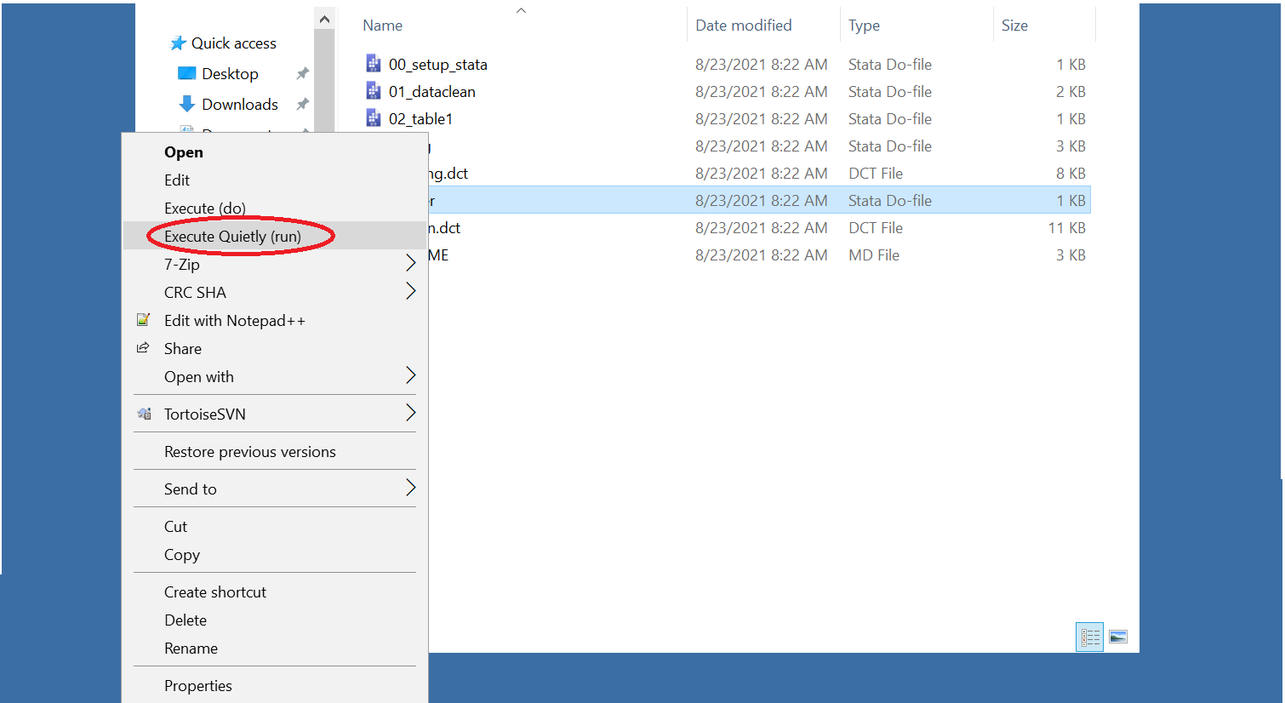
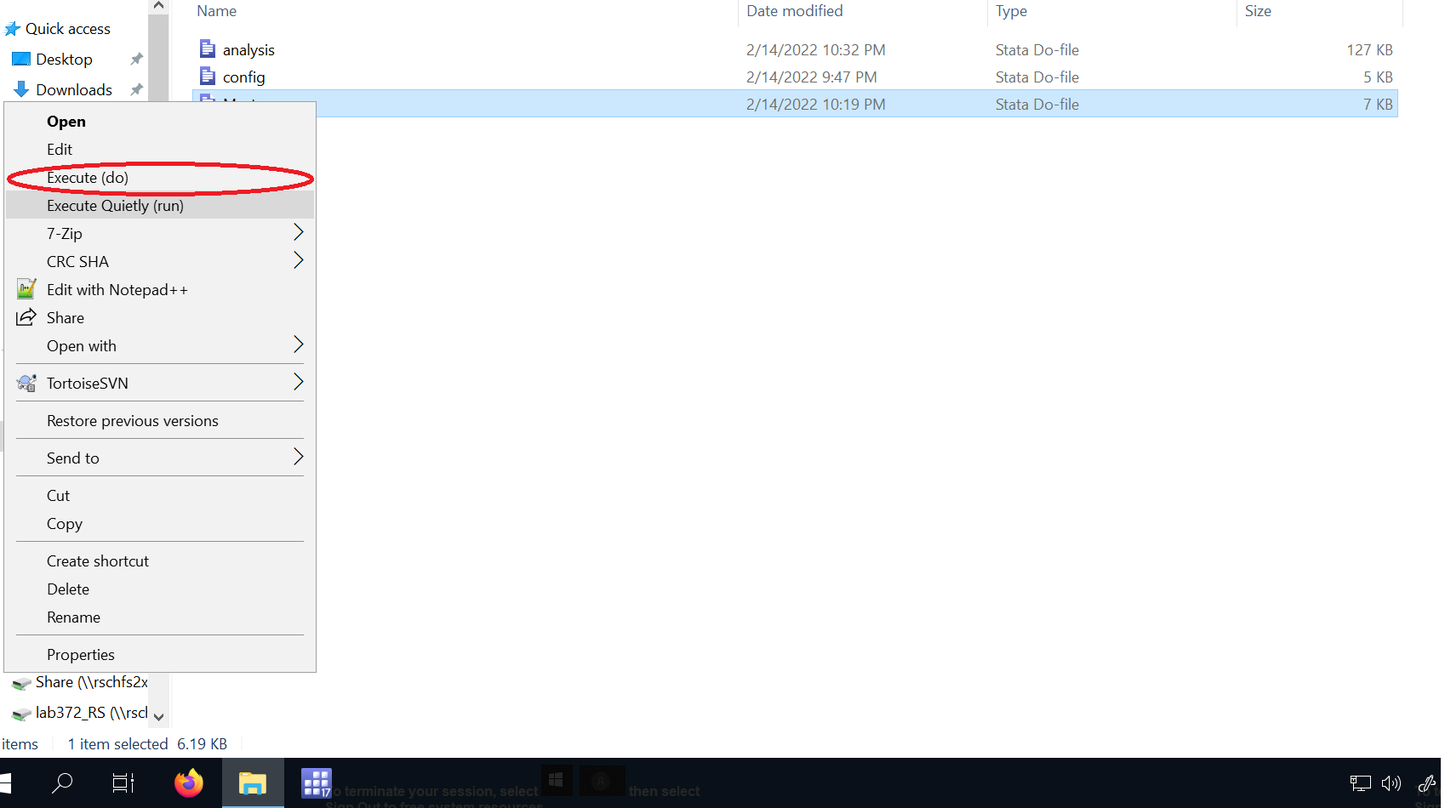
deploy: 50498d3e2a9d00c0083aae6a0e2be460c41ce194

diff --git a/stata-related-procedures.html b/stata-related-procedures.html
@@ -29,7 +29,7 @@
 <meta name="author" content="David Wasser" />
 
 
-<meta name="date" content="2022-02-14" />
+<meta name="date" content="2022-02-15" />
 
   <meta name="viewport" content="width=device-width, initial-scale=1" />
   <meta name="apple-mobile-web-app-capable" content="yes" />
@@ -261,7 +261,9 @@ code span.wa { color: #8f5902; font-weight: bold; font-style: italic; } /* Warni
 <li class="chapter" data-level="F" data-path="stata-related-procedures.html"><a href="stata-related-procedures.html"><i class="fa fa-check"></i><b>F</b> Stata-related procedures</a><ul>
 <li class="chapter" data-level="F.1" data-path="stata-related-procedures.html"><a href="stata-related-procedures.html#using-config.do-in-stata"><i class="fa fa-check"></i><b>F.1</b> Using config.do in STATA</a></li>
 <li class="chapter" data-level="F.2" data-path="stata-related-procedures.html"><a href="stata-related-procedures.html#running-code-in-stata"><i class="fa fa-check"></i><b>F.2</b> Running Code in Stata</a></li>
-<li class="chapter" data-level="F.3" data-path="stata-related-procedures.html"><a href="stata-related-procedures.html#using-scan_packages.do"><i class="fa fa-check"></i><b>F.3</b> Using scan_packages.do</a></li>
+<li class="chapter" data-level="F.3" data-path="stata-related-procedures.html"><a href="stata-related-procedures.html#step-6-run-the-code"><i class="fa fa-check"></i><b>F.3</b> Step 6: Run the Code</a></li>
+<li class="chapter" data-level="F.4" data-path="stata-related-procedures.html"><a href="stata-related-procedures.html#when-a-master-.do-file-is-not-provided"><i class="fa fa-check"></i><b>F.4</b> When a master .do file is not provided</a></li>
+<li class="chapter" data-level="F.5" data-path="stata-related-procedures.html"><a href="stata-related-procedures.html#using-scan_packages.do"><i class="fa fa-check"></i><b>F.5</b> Using scan_packages.do</a></li>
 </ul></li>
 <li class="chapter" data-level="G" data-path="authentication-related-issues.html"><a href="authentication-related-issues.html"><i class="fa fa-check"></i><b>G</b> Authentication-related issues</a><ul>
 <li class="chapter" data-level="G.1" data-path="authentication-related-issues.html"><a href="authentication-related-issues.html#bitbucket-authentication"><i class="fa fa-check"></i><b>G.1</b> Bitbucket Authentication</a></li>
@@ -525,13 +527,71 @@ local ssc_packages &quot;estout&quot;
     // Example:
     // local ssc_packages &quot;estout boottest&quot;
     // If you need to &quot;net install&quot; packages, go to the very end of this program, and add them there.</code></pre>
+</div>
+</div>
+</div>
+</div>
+<div id="step-6-run-the-code" class="section level2">
+<h2><span class="header-section-number">F.3</span> Step 6: Run the Code</h2>
+<blockquote>
+<p><strong>[ACTION]</strong> Right click in the master .do file and select the option <code>Execute (do)</code></p>
+</blockquote>
+<div class="figure">
+<img src="images/execute-do.png" alt="" />
+<p class="caption">execute do</p>
+</div>
+<p>This option will set the working directory set to the location where the master is. It opens Stata and will show the processes in the Stata window.</p>
+<div id="checking-for-a-complete-run-debugging-and-running-the-master-in-pieces" class="section level3">
+<h3><span class="header-section-number">F.3.1</span> Checking for a complete run, debugging and running the master in pieces</h3>
+<p>After running the code, the log files will need to be checked for a complete run. <strong>Use Visual Studio Code to open and inspect log files</strong>. Any bugs that prevents a complete run will also show up in the log files.</p>
+<p>If a you find a bug that is simple enough to fix, you can make changes to the do files. Then, you can right click on the master file and select <code>Execute (do)</code> as this option will open Stata, allowing to run the code interactively.</p>
+<p>If you decide the code needs to be run in pieces. In the master .do file, you can comment out (using the symbol *) the programs that are not to be run and save the master. Then, you can right click on the master and select the option `<code>Execute (do)</code>.</p>
+<p>When debugging is complete, you can uncomment all programs in the master and make a clean run, using again <code>Execute Quietly (run)</code> (consider how much time a complete run would take before you run everything one last time. If it would take too long, you may want to skip a complete run.)</p>
+</div>
+</div>
+<div id="when-a-master-.do-file-is-not-provided" class="section level2">
+<h2><span class="header-section-number">F.4</span> When a master .do file is not provided</h2>
+<p>If a master .do file is not provided, it might be worth it to create a one. Use your judgment to determine if it is indeed necessary, as opposed to running programs individually.</p>
+<p>To create a do file follow the following steps:</p>
+<ol style="list-style-type: decimal">
+<li><p>Check that the README for specific instructions about the order in which each program is supposed to be run. If there are no such instructions, or they are not obvious by the name of the programs, is probably best to not create a master do file.</p></li>
+<li><p>Assuming that the sequence of programs is clear to you, open stata and click on the “New do file editor” (you can also work on Visual Studio Code):</p></li>
+</ol>
+<div class="figure">
+<img src="images/doeditor.png" alt="" />
+<p class="caption">do_editor</p>
+</div>
+<p>To open the do file editor:</p>
+<div class="figure">
+<img src="images/doeditor2.png" alt="" />
+<p class="caption">do_editor2</p>
+</div>
+<ol start="3" style="list-style-type: decimal">
+<li><p>In the first line write <code>include "config.do"</code></p></li>
+<li><p>Write the command <code>do</code> and the path of each program that needs to be run. Write them in the correct sequence.</p></li>
+</ol>
+<pre><code>include &quot;config.do&quot;
+
+* Assuming scenario &quot;A&quot;
+
+do &quot;${rootdir}/code/0_first_program.do&quot; 
+do &quot;${rootdir}/code/1_second_program.do&quot;
+do &quot;${rootdir}/code/2_third_program.do&quot;
+do &quot;${rootdir}/code/appendix_code/appendix.do&quot;
+</code></pre>
+<ol start="5" style="list-style-type: decimal">
+<li>Save your master file.</li>
+</ol>
+<p>At the end your master .do file may look like this:</p>
+<div class="figure">
+<img src="images/master-example.png" alt="" />
+<p class="caption">master</p>
+</div>
+<p>With your master do file done, you can go back to step 2.</p>
 
 </div>
-</div>
-</div>
-</div>
 <div id="using-scan_packages.do" class="section level2">
-<h2><span class="header-section-number">F.3</span> Using scan_packages.do</h2>
+<h2><span class="header-section-number">F.5</span> Using scan_packages.do</h2>
 <p>In “Writing Preliminary Report” stage, we ask you to check the completeness of the information on system requirements. Often, authors do not list out packages they installed that are not default packages in STATA. The authors should list them in the README (even when they provide ado files!), but it does not always happen. To help you identify these packages, we provide an useful tool for this exercise.</p>
 <ul>
 <li>Locate a directory named “tools/Stata_scan_code/”.</li>

diff --git a/index.html b/index.html
@@ -29,7 +29,7 @@
 <meta name="author" content="David Wasser" />
 
 
-<meta name="date" content="2022-02-14" />
+<meta name="date" content="2022-02-15" />
 
   <meta name="viewport" content="width=device-width, initial-scale=1" />
   <meta name="apple-mobile-web-app-capable" content="yes" />
@@ -261,7 +261,9 @@ code span.wa { color: #8f5902; font-weight: bold; font-style: italic; } /* Warni
 <li class="chapter" data-level="F" data-path="stata-related-procedures.html"><a href="stata-related-procedures.html"><i class="fa fa-check"></i><b>F</b> Stata-related procedures</a><ul>
 <li class="chapter" data-level="F.1" data-path="stata-related-procedures.html"><a href="stata-related-procedures.html#using-config.do-in-stata"><i class="fa fa-check"></i><b>F.1</b> Using config.do in STATA</a></li>
 <li class="chapter" data-level="F.2" data-path="stata-related-procedures.html"><a href="stata-related-procedures.html#running-code-in-stata"><i class="fa fa-check"></i><b>F.2</b> Running Code in Stata</a></li>
-<li class="chapter" data-level="F.3" data-path="stata-related-procedures.html"><a href="stata-related-procedures.html#using-scan_packages.do"><i class="fa fa-check"></i><b>F.3</b> Using scan_packages.do</a></li>
+<li class="chapter" data-level="F.3" data-path="stata-related-procedures.html"><a href="stata-related-procedures.html#step-6-run-the-code"><i class="fa fa-check"></i><b>F.3</b> Step 6: Run the Code</a></li>
+<li class="chapter" data-level="F.4" data-path="stata-related-procedures.html"><a href="stata-related-procedures.html#when-a-master-.do-file-is-not-provided"><i class="fa fa-check"></i><b>F.4</b> When a master .do file is not provided</a></li>
+<li class="chapter" data-level="F.5" data-path="stata-related-procedures.html"><a href="stata-related-procedures.html#using-scan_packages.do"><i class="fa fa-check"></i><b>F.5</b> Using scan_packages.do</a></li>
 </ul></li>
 <li class="chapter" data-level="G" data-path="authentication-related-issues.html"><a href="authentication-related-issues.html"><i class="fa fa-check"></i><b>G</b> Authentication-related issues</a><ul>
 <li class="chapter" data-level="G.1" data-path="authentication-related-issues.html"><a href="authentication-related-issues.html#bitbucket-authentication"><i class="fa fa-check"></i><b>G.1</b> Bitbucket Authentication</a></li>
@@ -296,7 +298,7 @@ code span.wa { color: #8f5902; font-weight: bold; font-style: italic; } /* Warni
 <p class="author"><em>Hyuk Son</em></p>
 <p class="author"><em>Meredith Welch</em></p>
 <p class="author"><em>David Wasser</em></p>
-<p class="date"><em>2022-02-14</em></p>
+<p class="date"><em>2022-02-15</em></p>
 </div>
 <div id="introduction" class="section level1">
 <h1><span class="header-section-number">Chapter 1</span> Introduction</h1>

diff --git a/a-guided-walk-through-the-replication-report.html b/a-guided-walk-through-the-replication-report.html
@@ -29,7 +29,7 @@
 <meta name="author" content="David Wasser" />
 
 
-<meta name="date" content="2022-02-14" />
+<meta name="date" content="2022-02-15" />
 
   <meta name="viewport" content="width=device-width, initial-scale=1" />
   <meta name="apple-mobile-web-app-capable" content="yes" />
@@ -261,7 +261,9 @@ code span.wa { color: #8f5902; font-weight: bold; font-style: italic; } /* Warni
 <li class="chapter" data-level="F" data-path="stata-related-procedures.html"><a href="stata-related-procedures.html"><i class="fa fa-check"></i><b>F</b> Stata-related procedures</a><ul>
 <li class="chapter" data-level="F.1" data-path="stata-related-procedures.html"><a href="stata-related-procedures.html#using-config.do-in-stata"><i class="fa fa-check"></i><b>F.1</b> Using config.do in STATA</a></li>
 <li class="chapter" data-level="F.2" data-path="stata-related-procedures.html"><a href="stata-related-procedures.html#running-code-in-stata"><i class="fa fa-check"></i><b>F.2</b> Running Code in Stata</a></li>
-<li class="chapter" data-level="F.3" data-path="stata-related-procedures.html"><a href="stata-related-procedures.html#using-scan_packages.do"><i class="fa fa-check"></i><b>F.3</b> Using scan_packages.do</a></li>
+<li class="chapter" data-level="F.3" data-path="stata-related-procedures.html"><a href="stata-related-procedures.html#step-6-run-the-code"><i class="fa fa-check"></i><b>F.3</b> Step 6: Run the Code</a></li>
+<li class="chapter" data-level="F.4" data-path="stata-related-procedures.html"><a href="stata-related-procedures.html#when-a-master-.do-file-is-not-provided"><i class="fa fa-check"></i><b>F.4</b> When a master .do file is not provided</a></li>
+<li class="chapter" data-level="F.5" data-path="stata-related-procedures.html"><a href="stata-related-procedures.html#using-scan_packages.do"><i class="fa fa-check"></i><b>F.5</b> Using scan_packages.do</a></li>
 </ul></li>
 <li class="chapter" data-level="G" data-path="authentication-related-issues.html"><a href="authentication-related-issues.html"><i class="fa fa-check"></i><b>G</b> Authentication-related issues</a><ul>
 <li class="chapter" data-level="G.1" data-path="authentication-related-issues.html"><a href="authentication-related-issues.html#bitbucket-authentication"><i class="fa fa-check"></i><b>G.1</b> Bitbucket Authentication</a></li>

diff --git a/access-to-computers.html b/access-to-computers.html
@@ -29,7 +29,7 @@
 <meta name="author" content="David Wasser" />
 
 
-<meta name="date" content="2022-02-14" />
+<meta name="date" content="2022-02-15" />
 
   <meta name="viewport" content="width=device-width, initial-scale=1" />
   <meta name="apple-mobile-web-app-capable" content="yes" />
@@ -261,7 +261,9 @@ code span.wa { color: #8f5902; font-weight: bold; font-style: italic; } /* Warni
 <li class="chapter" data-level="F" data-path="stata-related-procedures.html"><a href="stata-related-procedures.html"><i class="fa fa-check"></i><b>F</b> Stata-related procedures</a><ul>
 <li class="chapter" data-level="F.1" data-path="stata-related-procedures.html"><a href="stata-related-procedures.html#using-config.do-in-stata"><i class="fa fa-check"></i><b>F.1</b> Using config.do in STATA</a></li>
 <li class="chapter" data-level="F.2" data-path="stata-related-procedures.html"><a href="stata-related-procedures.html#running-code-in-stata"><i class="fa fa-check"></i><b>F.2</b> Running Code in Stata</a></li>
-<li class="chapter" data-level="F.3" data-path="stata-related-procedures.html"><a href="stata-related-procedures.html#using-scan_packages.do"><i class="fa fa-check"></i><b>F.3</b> Using scan_packages.do</a></li>
+<li class="chapter" data-level="F.3" data-path="stata-related-procedures.html"><a href="stata-related-procedures.html#step-6-run-the-code"><i class="fa fa-check"></i><b>F.3</b> Step 6: Run the Code</a></li>
+<li class="chapter" data-level="F.4" data-path="stata-related-procedures.html"><a href="stata-related-procedures.html#when-a-master-.do-file-is-not-provided"><i class="fa fa-check"></i><b>F.4</b> When a master .do file is not provided</a></li>
+<li class="chapter" data-level="F.5" data-path="stata-related-procedures.html"><a href="stata-related-procedures.html#using-scan_packages.do"><i class="fa fa-check"></i><b>F.5</b> Using scan_packages.do</a></li>
 </ul></li>
 <li class="chapter" data-level="G" data-path="authentication-related-issues.html"><a href="authentication-related-issues.html"><i class="fa fa-check"></i><b>G</b> Authentication-related issues</a><ul>
 <li class="chapter" data-level="G.1" data-path="authentication-related-issues.html"><a href="authentication-related-issues.html#bitbucket-authentication"><i class="fa fa-check"></i><b>G.1</b> Bitbucket Authentication</a></li>

diff --git a/aea-instructions-for-papers-and-proceedings-checks.html b/aea-instructions-for-papers-and-proceedings-checks.html
@@ -29,7 +29,7 @@
 <meta name="author" content="David Wasser" />
 
 
-<meta name="date" content="2022-02-14" />
+<meta name="date" content="2022-02-15" />
 
   <meta name="viewport" content="width=device-width, initial-scale=1" />
   <meta name="apple-mobile-web-app-capable" content="yes" />
@@ -261,7 +261,9 @@ code span.wa { color: #8f5902; font-weight: bold; font-style: italic; } /* Warni
 <li class="chapter" data-level="F" data-path="stata-related-procedures.html"><a href="stata-related-procedures.html"><i class="fa fa-check"></i><b>F</b> Stata-related procedures</a><ul>
 <li class="chapter" data-level="F.1" data-path="stata-related-procedures.html"><a href="stata-related-procedures.html#using-config.do-in-stata"><i class="fa fa-check"></i><b>F.1</b> Using config.do in STATA</a></li>
 <li class="chapter" data-level="F.2" data-path="stata-related-procedures.html"><a href="stata-related-procedures.html#running-code-in-stata"><i class="fa fa-check"></i><b>F.2</b> Running Code in Stata</a></li>
-<li class="chapter" data-level="F.3" data-path="stata-related-procedures.html"><a href="stata-related-procedures.html#using-scan_packages.do"><i class="fa fa-check"></i><b>F.3</b> Using scan_packages.do</a></li>
+<li class="chapter" data-level="F.3" data-path="stata-related-procedures.html"><a href="stata-related-procedures.html#step-6-run-the-code"><i class="fa fa-check"></i><b>F.3</b> Step 6: Run the Code</a></li>
+<li class="chapter" data-level="F.4" data-path="stata-related-procedures.html"><a href="stata-related-procedures.html#when-a-master-.do-file-is-not-provided"><i class="fa fa-check"></i><b>F.4</b> When a master .do file is not provided</a></li>
+<li class="chapter" data-level="F.5" data-path="stata-related-procedures.html"><a href="stata-related-procedures.html#using-scan_packages.do"><i class="fa fa-check"></i><b>F.5</b> Using scan_packages.do</a></li>
 </ul></li>
 <li class="chapter" data-level="G" data-path="authentication-related-issues.html"><a href="authentication-related-issues.html"><i class="fa fa-check"></i><b>G</b> Authentication-related issues</a><ul>
 <li class="chapter" data-level="G.1" data-path="authentication-related-issues.html"><a href="authentication-related-issues.html#bitbucket-authentication"><i class="fa fa-check"></i><b>G.1</b> Bitbucket Authentication</a></li>

diff --git a/aea-interfacing-with-the-journal-management-system.html b/aea-interfacing-with-the-journal-management-system.html
@@ -29,7 +29,7 @@
 <meta name="author" content="David Wasser" />
 
 
-<meta name="date" content="2022-02-14" />
+<meta name="date" content="2022-02-15" />
 
   <meta name="viewport" content="width=device-width, initial-scale=1" />
   <meta name="apple-mobile-web-app-capable" content="yes" />
@@ -261,7 +261,9 @@ code span.wa { color: #8f5902; font-weight: bold; font-style: italic; } /* Warni
 <li class="chapter" data-level="F" data-path="stata-related-procedures.html"><a href="stata-related-procedures.html"><i class="fa fa-check"></i><b>F</b> Stata-related procedures</a><ul>
 <li class="chapter" data-level="F.1" data-path="stata-related-procedures.html"><a href="stata-related-procedures.html#using-config.do-in-stata"><i class="fa fa-check"></i><b>F.1</b> Using config.do in STATA</a></li>
 <li class="chapter" data-level="F.2" data-path="stata-related-procedures.html"><a href="stata-related-procedures.html#running-code-in-stata"><i class="fa fa-check"></i><b>F.2</b> Running Code in Stata</a></li>
-<li class="chapter" data-level="F.3" data-path="stata-related-procedures.html"><a href="stata-related-procedures.html#using-scan_packages.do"><i class="fa fa-check"></i><b>F.3</b> Using scan_packages.do</a></li>
+<li class="chapter" data-level="F.3" data-path="stata-related-procedures.html"><a href="stata-related-procedures.html#step-6-run-the-code"><i class="fa fa-check"></i><b>F.3</b> Step 6: Run the Code</a></li>
+<li class="chapter" data-level="F.4" data-path="stata-related-procedures.html"><a href="stata-related-procedures.html#when-a-master-.do-file-is-not-provided"><i class="fa fa-check"></i><b>F.4</b> When a master .do file is not provided</a></li>
+<li class="chapter" data-level="F.5" data-path="stata-related-procedures.html"><a href="stata-related-procedures.html#using-scan_packages.do"><i class="fa fa-check"></i><b>F.5</b> Using scan_packages.do</a></li>
 </ul></li>
 <li class="chapter" data-level="G" data-path="authentication-related-issues.html"><a href="authentication-related-issues.html"><i class="fa fa-check"></i><b>G</b> Authentication-related issues</a><ul>
 <li class="chapter" data-level="G.1" data-path="authentication-related-issues.html"><a href="authentication-related-issues.html#bitbucket-authentication"><i class="fa fa-check"></i><b>G.1</b> Bitbucket Authentication</a></li>

diff --git a/aea-jira-workflow-a-guide.html b/aea-jira-workflow-a-guide.html
@@ -29,7 +29,7 @@
 <meta name="author" content="David Wasser" />
 
 
-<meta name="date" content="2022-02-14" />
+<meta name="date" content="2022-02-15" />
 
   <meta name="viewport" content="width=device-width, initial-scale=1" />
   <meta name="apple-mobile-web-app-capable" content="yes" />
@@ -261,7 +261,9 @@ code span.wa { color: #8f5902; font-weight: bold; font-style: italic; } /* Warni
 <li class="chapter" data-level="F" data-path="stata-related-procedures.html"><a href="stata-related-procedures.html"><i class="fa fa-check"></i><b>F</b> Stata-related procedures</a><ul>
 <li class="chapter" data-level="F.1" data-path="stata-related-procedures.html"><a href="stata-related-procedures.html#using-config.do-in-stata"><i class="fa fa-check"></i><b>F.1</b> Using config.do in STATA</a></li>
 <li class="chapter" data-level="F.2" data-path="stata-related-procedures.html"><a href="stata-related-procedures.html#running-code-in-stata"><i class="fa fa-check"></i><b>F.2</b> Running Code in Stata</a></li>
-<li class="chapter" data-level="F.3" data-path="stata-related-procedures.html"><a href="stata-related-procedures.html#using-scan_packages.do"><i class="fa fa-check"></i><b>F.3</b> Using scan_packages.do</a></li>
+<li class="chapter" data-level="F.3" data-path="stata-related-procedures.html"><a href="stata-related-procedures.html#step-6-run-the-code"><i class="fa fa-check"></i><b>F.3</b> Step 6: Run the Code</a></li>
+<li class="chapter" data-level="F.4" data-path="stata-related-procedures.html"><a href="stata-related-procedures.html#when-a-master-.do-file-is-not-provided"><i class="fa fa-check"></i><b>F.4</b> When a master .do file is not provided</a></li>
+<li class="chapter" data-level="F.5" data-path="stata-related-procedures.html"><a href="stata-related-procedures.html#using-scan_packages.do"><i class="fa fa-check"></i><b>F.5</b> Using scan_packages.do</a></li>
 </ul></li>
 <li class="chapter" data-level="G" data-path="authentication-related-issues.html"><a href="authentication-related-issues.html"><i class="fa fa-check"></i><b>G</b> Authentication-related issues</a><ul>
 <li class="chapter" data-level="G.1" data-path="authentication-related-issues.html"><a href="authentication-related-issues.html#bitbucket-authentication"><i class="fa fa-check"></i><b>G.1</b> Bitbucket Authentication</a></li>

diff --git a/aea-monitoring-pending-openicpsr-changes.html b/aea-monitoring-pending-openicpsr-changes.html
@@ -29,7 +29,7 @@
 <meta name="author" content="David Wasser" />
 
 
-<meta name="date" content="2022-02-14" />
+<meta name="date" content="2022-02-15" />
 
   <meta name="viewport" content="width=device-width, initial-scale=1" />
   <meta name="apple-mobile-web-app-capable" content="yes" />
@@ -261,7 +261,9 @@ code span.wa { color: #8f5902; font-weight: bold; font-style: italic; } /* Warni
 <li class="chapter" data-level="F" data-path="stata-related-procedures.html"><a href="stata-related-procedures.html"><i class="fa fa-check"></i><b>F</b> Stata-related procedures</a><ul>
 <li class="chapter" data-level="F.1" data-path="stata-related-procedures.html"><a href="stata-related-procedures.html#using-config.do-in-stata"><i class="fa fa-check"></i><b>F.1</b> Using config.do in STATA</a></li>
 <li class="chapter" data-level="F.2" data-path="stata-related-procedures.html"><a href="stata-related-procedures.html#running-code-in-stata"><i class="fa fa-check"></i><b>F.2</b> Running Code in Stata</a></li>
-<li class="chapter" data-level="F.3" data-path="stata-related-procedures.html"><a href="stata-related-procedures.html#using-scan_packages.do"><i class="fa fa-check"></i><b>F.3</b> Using scan_packages.do</a></li>
+<li class="chapter" data-level="F.3" data-path="stata-related-procedures.html"><a href="stata-related-procedures.html#step-6-run-the-code"><i class="fa fa-check"></i><b>F.3</b> Step 6: Run the Code</a></li>
+<li class="chapter" data-level="F.4" data-path="stata-related-procedures.html"><a href="stata-related-procedures.html#when-a-master-.do-file-is-not-provided"><i class="fa fa-check"></i><b>F.4</b> When a master .do file is not provided</a></li>
+<li class="chapter" data-level="F.5" data-path="stata-related-procedures.html"><a href="stata-related-procedures.html#using-scan_packages.do"><i class="fa fa-check"></i><b>F.5</b> Using scan_packages.do</a></li>
 </ul></li>
 <li class="chapter" data-level="G" data-path="authentication-related-issues.html"><a href="authentication-related-issues.html"><i class="fa fa-check"></i><b>G</b> Authentication-related issues</a><ul>
 <li class="chapter" data-level="G.1" data-path="authentication-related-issues.html"><a href="authentication-related-issues.html#bitbucket-authentication"><i class="fa fa-check"></i><b>G.1</b> Bitbucket Authentication</a></li>

diff --git a/aea-revision-reports-after-author-resubmission.html b/aea-revision-reports-after-author-resubmission.html
@@ -29,7 +29,7 @@
 <meta name="author" content="David Wasser" />
 
 
-<meta name="date" content="2022-02-14" />
+<meta name="date" content="2022-02-15" />
 
   <meta name="viewport" content="width=device-width, initial-scale=1" />
   <meta name="apple-mobile-web-app-capable" content="yes" />
@@ -261,7 +261,9 @@ code span.wa { color: #8f5902; font-weight: bold; font-style: italic; } /* Warni
 <li class="chapter" data-level="F" data-path="stata-related-procedures.html"><a href="stata-related-procedures.html"><i class="fa fa-check"></i><b>F</b> Stata-related procedures</a><ul>
 <li class="chapter" data-level="F.1" data-path="stata-related-procedures.html"><a href="stata-related-procedures.html#using-config.do-in-stata"><i class="fa fa-check"></i><b>F.1</b> Using config.do in STATA</a></li>
 <li class="chapter" data-level="F.2" data-path="stata-related-procedures.html"><a href="stata-related-procedures.html#running-code-in-stata"><i class="fa fa-check"></i><b>F.2</b> Running Code in Stata</a></li>
-<li class="chapter" data-level="F.3" data-path="stata-related-procedures.html"><a href="stata-related-procedures.html#using-scan_packages.do"><i class="fa fa-check"></i><b>F.3</b> Using scan_packages.do</a></li>
+<li class="chapter" data-level="F.3" data-path="stata-related-procedures.html"><a href="stata-related-procedures.html#step-6-run-the-code"><i class="fa fa-check"></i><b>F.3</b> Step 6: Run the Code</a></li>
+<li class="chapter" data-level="F.4" data-path="stata-related-procedures.html"><a href="stata-related-procedures.html#when-a-master-.do-file-is-not-provided"><i class="fa fa-check"></i><b>F.4</b> When a master .do file is not provided</a></li>
+<li class="chapter" data-level="F.5" data-path="stata-related-procedures.html"><a href="stata-related-procedures.html#using-scan_packages.do"><i class="fa fa-check"></i><b>F.5</b> Using scan_packages.do</a></li>
 </ul></li>
 <li class="chapter" data-level="G" data-path="authentication-related-issues.html"><a href="authentication-related-issues.html"><i class="fa fa-check"></i><b>G</b> Authentication-related issues</a><ul>
 <li class="chapter" data-level="G.1" data-path="authentication-related-issues.html"><a href="authentication-related-issues.html#bitbucket-authentication"><i class="fa fa-check"></i><b>G.1</b> Bitbucket Authentication</a></li>

diff --git a/assessing-computational-reproducibility.html b/assessing-computational-reproducibility.html
@@ -29,7 +29,7 @@
 <meta name="author" content="David Wasser" />
 
 
-<meta name="date" content="2022-02-14" />
+<meta name="date" content="2022-02-15" />
 
   <meta name="viewport" content="width=device-width, initial-scale=1" />
   <meta name="apple-mobile-web-app-capable" content="yes" />
@@ -261,7 +261,9 @@ code span.wa { color: #8f5902; font-weight: bold; font-style: italic; } /* Warni
 <li class="chapter" data-level="F" data-path="stata-related-procedures.html"><a href="stata-related-procedures.html"><i class="fa fa-check"></i><b>F</b> Stata-related procedures</a><ul>
 <li class="chapter" data-level="F.1" data-path="stata-related-procedures.html"><a href="stata-related-procedures.html#using-config.do-in-stata"><i class="fa fa-check"></i><b>F.1</b> Using config.do in STATA</a></li>
 <li class="chapter" data-level="F.2" data-path="stata-related-procedures.html"><a href="stata-related-procedures.html#running-code-in-stata"><i class="fa fa-check"></i><b>F.2</b> Running Code in Stata</a></li>
-<li class="chapter" data-level="F.3" data-path="stata-related-procedures.html"><a href="stata-related-procedures.html#using-scan_packages.do"><i class="fa fa-check"></i><b>F.3</b> Using scan_packages.do</a></li>
+<li class="chapter" data-level="F.3" data-path="stata-related-procedures.html"><a href="stata-related-procedures.html#step-6-run-the-code"><i class="fa fa-check"></i><b>F.3</b> Step 6: Run the Code</a></li>
+<li class="chapter" data-level="F.4" data-path="stata-related-procedures.html"><a href="stata-related-procedures.html#when-a-master-.do-file-is-not-provided"><i class="fa fa-check"></i><b>F.4</b> When a master .do file is not provided</a></li>
+<li class="chapter" data-level="F.5" data-path="stata-related-procedures.html"><a href="stata-related-procedures.html#using-scan_packages.do"><i class="fa fa-check"></i><b>F.5</b> Using scan_packages.do</a></li>
 </ul></li>
 <li class="chapter" data-level="G" data-path="authentication-related-issues.html"><a href="authentication-related-issues.html"><i class="fa fa-check"></i><b>G</b> Authentication-related issues</a><ul>
 <li class="chapter" data-level="G.1" data-path="authentication-related-issues.html"><a href="authentication-related-issues.html#bitbucket-authentication"><i class="fa fa-check"></i><b>G.1</b> Bitbucket Authentication</a></li>

diff --git a/authentication-related-issues.html b/authentication-related-issues.html
@@ -29,7 +29,7 @@
 <meta name="author" content="David Wasser" />
 
 
-<meta name="date" content="2022-02-14" />
+<meta name="date" content="2022-02-15" />
 
   <meta name="viewport" content="width=device-width, initial-scale=1" />
   <meta name="apple-mobile-web-app-capable" content="yes" />
@@ -261,7 +261,9 @@ code span.wa { color: #8f5902; font-weight: bold; font-style: italic; } /* Warni
 <li class="chapter" data-level="F" data-path="stata-related-procedures.html"><a href="stata-related-procedures.html"><i class="fa fa-check"></i><b>F</b> Stata-related procedures</a><ul>
 <li class="chapter" data-level="F.1" data-path="stata-related-procedures.html"><a href="stata-related-procedures.html#using-config.do-in-stata"><i class="fa fa-check"></i><b>F.1</b> Using config.do in STATA</a></li>
 <li class="chapter" data-level="F.2" data-path="stata-related-procedures.html"><a href="stata-related-procedures.html#running-code-in-stata"><i class="fa fa-check"></i><b>F.2</b> Running Code in Stata</a></li>
-<li class="chapter" data-level="F.3" data-path="stata-related-procedures.html"><a href="stata-related-procedures.html#using-scan_packages.do"><i class="fa fa-check"></i><b>F.3</b> Using scan_packages.do</a></li>
+<li class="chapter" data-level="F.3" data-path="stata-related-procedures.html"><a href="stata-related-procedures.html#step-6-run-the-code"><i class="fa fa-check"></i><b>F.3</b> Step 6: Run the Code</a></li>
+<li class="chapter" data-level="F.4" data-path="stata-related-procedures.html"><a href="stata-related-procedures.html#when-a-master-.do-file-is-not-provided"><i class="fa fa-check"></i><b>F.4</b> When a master .do file is not provided</a></li>
+<li class="chapter" data-level="F.5" data-path="stata-related-procedures.html"><a href="stata-related-procedures.html#using-scan_packages.do"><i class="fa fa-check"></i><b>F.5</b> Using scan_packages.do</a></li>
 </ul></li>
 <li class="chapter" data-level="G" data-path="authentication-related-issues.html"><a href="authentication-related-issues.html"><i class="fa fa-check"></i><b>G</b> Authentication-related issues</a><ul>
 <li class="chapter" data-level="G.1" data-path="authentication-related-issues.html"><a href="authentication-related-issues.html#bitbucket-authentication"><i class="fa fa-check"></i><b>G.1</b> Bitbucket Authentication</a></li>

diff --git a/background.html b/background.html
@@ -29,7 +29,7 @@
 <meta name="author" content="David Wasser" />
 
 
-<meta name="date" content="2022-02-14" />
+<meta name="date" content="2022-02-15" />
 
   <meta name="viewport" content="width=device-width, initial-scale=1" />
   <meta name="apple-mobile-web-app-capable" content="yes" />
@@ -261,7 +261,9 @@ code span.wa { color: #8f5902; font-weight: bold; font-style: italic; } /* Warni
 <li class="chapter" data-level="F" data-path="stata-related-procedures.html"><a href="stata-related-procedures.html"><i class="fa fa-check"></i><b>F</b> Stata-related procedures</a><ul>
 <li class="chapter" data-level="F.1" data-path="stata-related-procedures.html"><a href="stata-related-procedures.html#using-config.do-in-stata"><i class="fa fa-check"></i><b>F.1</b> Using config.do in STATA</a></li>
 <li class="chapter" data-level="F.2" data-path="stata-related-procedures.html"><a href="stata-related-procedures.html#running-code-in-stata"><i class="fa fa-check"></i><b>F.2</b> Running Code in Stata</a></li>
-<li class="chapter" data-level="F.3" data-path="stata-related-procedures.html"><a href="stata-related-procedures.html#using-scan_packages.do"><i class="fa fa-check"></i><b>F.3</b> Using scan_packages.do</a></li>
+<li class="chapter" data-level="F.3" data-path="stata-related-procedures.html"><a href="stata-related-procedures.html#step-6-run-the-code"><i class="fa fa-check"></i><b>F.3</b> Step 6: Run the Code</a></li>
+<li class="chapter" data-level="F.4" data-path="stata-related-procedures.html"><a href="stata-related-procedures.html#when-a-master-.do-file-is-not-provided"><i class="fa fa-check"></i><b>F.4</b> When a master .do file is not provided</a></li>
+<li class="chapter" data-level="F.5" data-path="stata-related-procedures.html"><a href="stata-related-procedures.html#using-scan_packages.do"><i class="fa fa-check"></i><b>F.5</b> Using scan_packages.do</a></li>
 </ul></li>
 <li class="chapter" data-level="G" data-path="authentication-related-issues.html"><a href="authentication-related-issues.html"><i class="fa fa-check"></i><b>G</b> Authentication-related issues</a><ul>
 <li class="chapter" data-level="G.1" data-path="authentication-related-issues.html"><a href="authentication-related-issues.html#bitbucket-authentication"><i class="fa fa-check"></i><b>G.1</b> Bitbucket Authentication</a></li>
